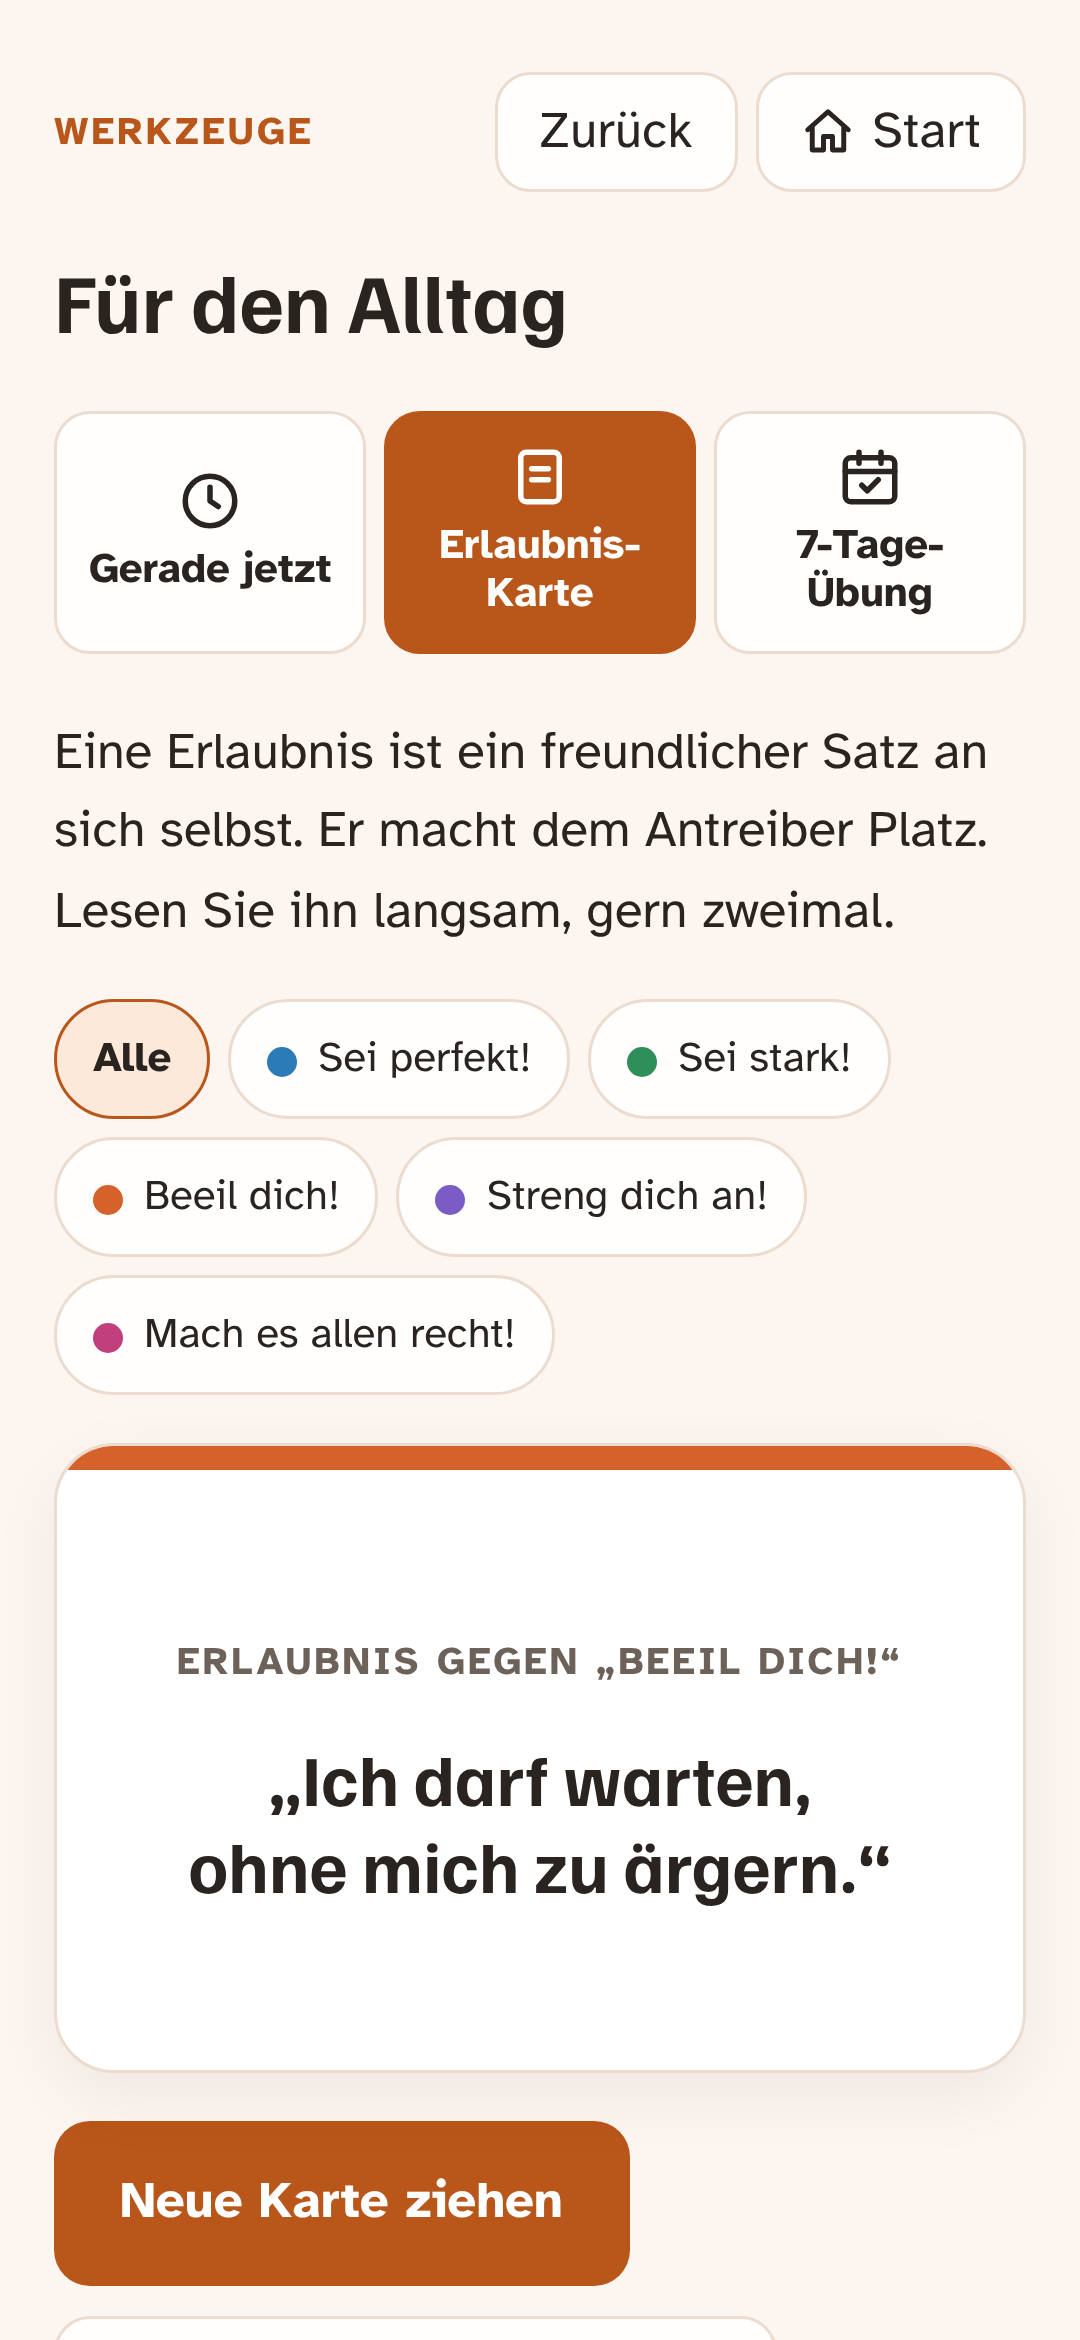
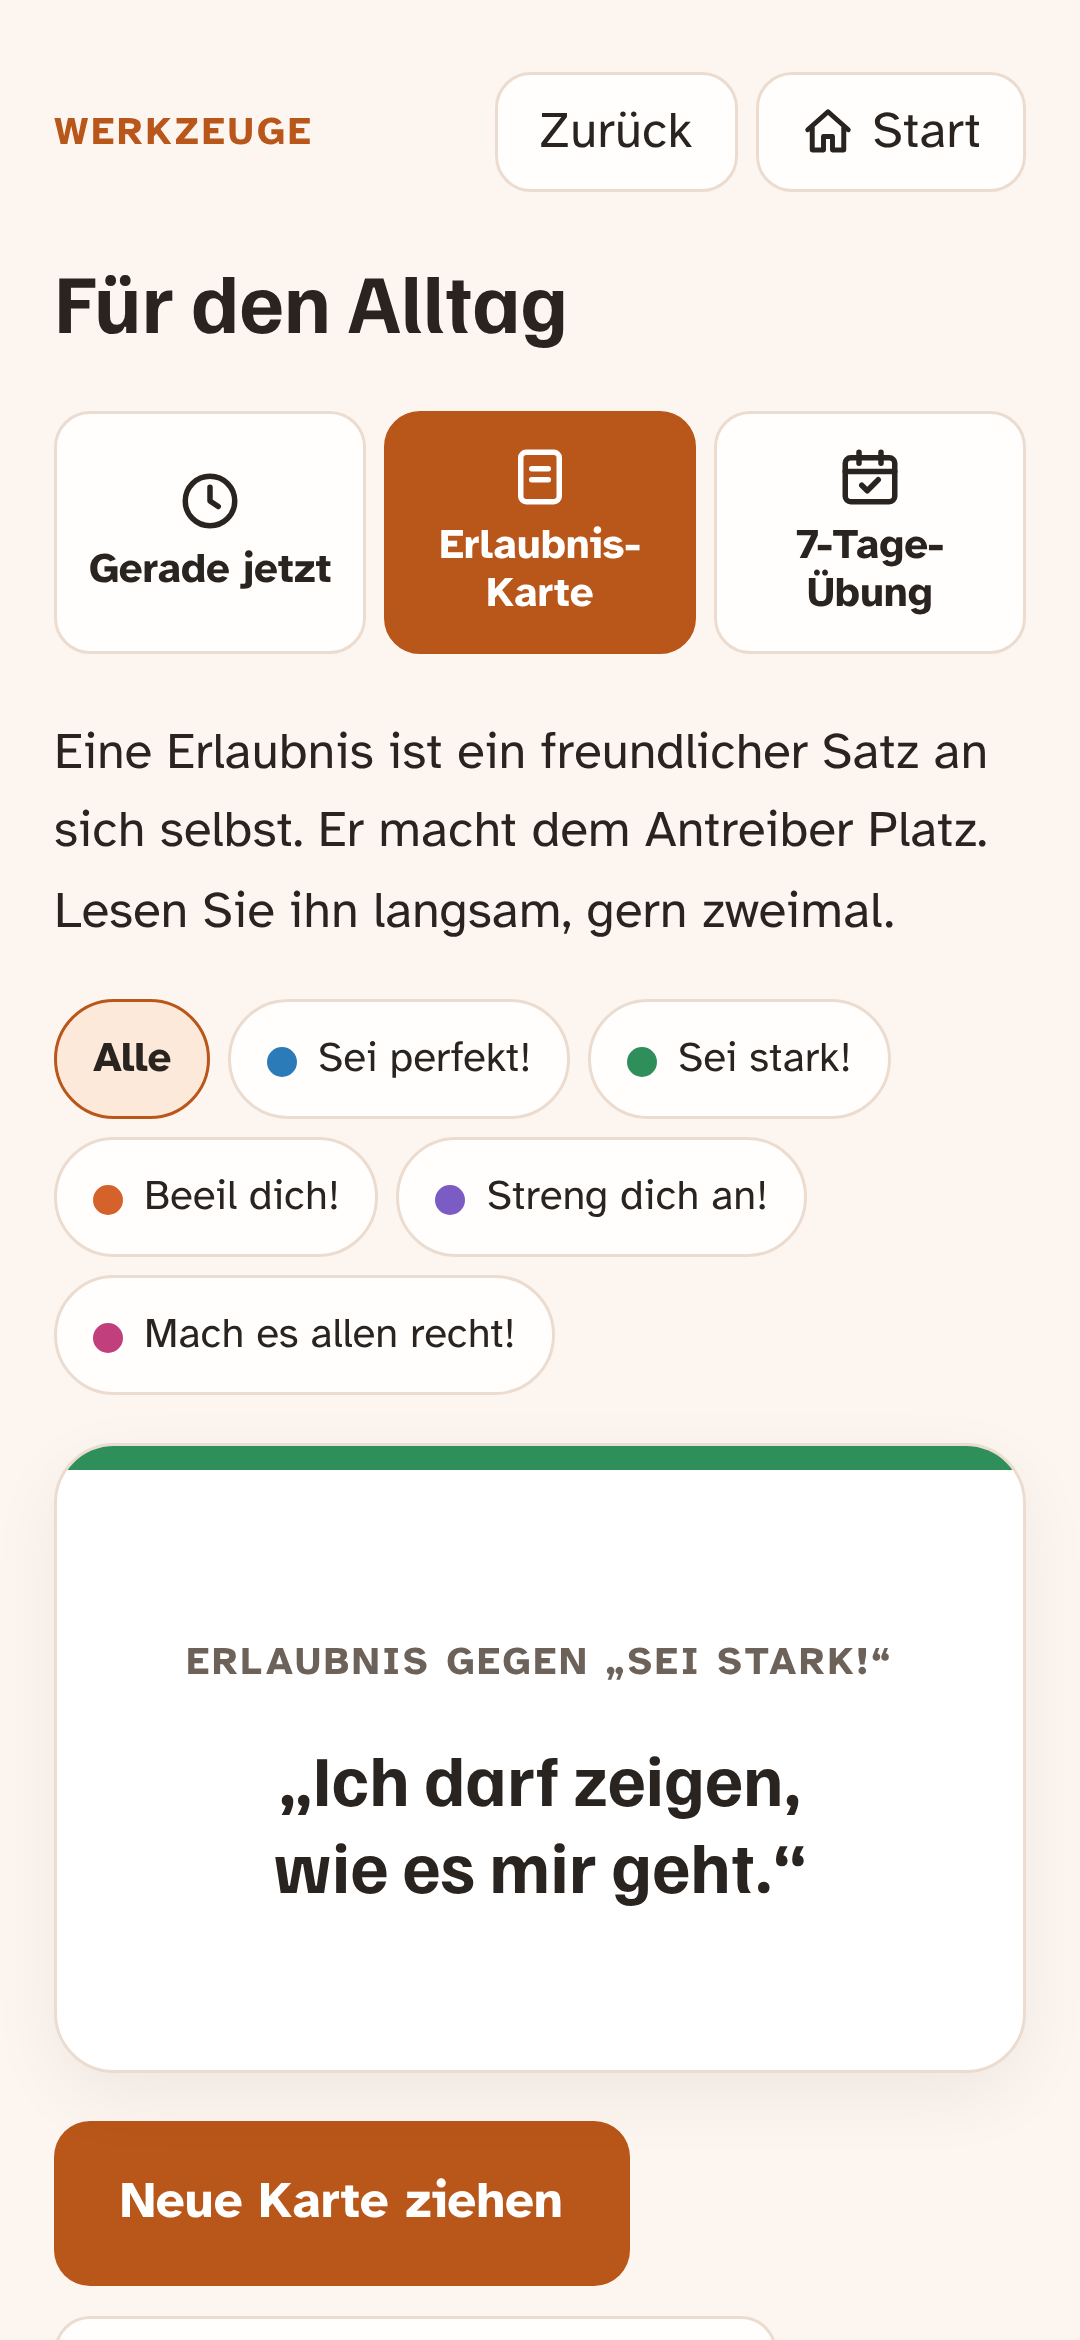
Erlaubnis-Karten werden jedes Mal neu zusammengestellt
- Je Antreiber ein Baukasten: 6 Anlässe („Wenn …,“), 8 Erlaubnisse
  („… darf ich …“), 6 kleine Schritte; vier Bauformen, 1.960 Karten
- Schon gezeigte Karten werden gemieden (bis 600 gemerkt)
- Lange Karten in kleinerer Schrift

Claude-Session: https://claude.ai/code/session_01XfaHrWKfCnrN5ZpBhepyRq

Changed region(s): [[0.0611, 0.5927, 0.9167, 0.6551], [0.1833, 0.7487, 0.825, 0.8111], [0.1528, 0.6863, 0.825, 0.7175]]

diff --git a/src/app.html b/src/app.html
@@ -207,6 +207,7 @@ button.chip[aria-expanded="true"]{border-color:var(--accent);box-shadow:inset 0 
 .pcard{position:relative;overflow:hidden;border-radius:20px;padding:30px 22px 22px;background:var(--surface-solid);border:1px solid var(--line);min-height:210px;display:flex;flex-direction:column;justify-content:center;gap:14px;text-align:center;box-shadow:0 8px 24px rgba(0,0,0,.06)}
 .pcard::before{content:"";position:absolute;inset:0 0 auto 0;height:8px;background:var(--pc,var(--accent))}
 .pcard .big{font-family:var(--f-display);font-weight:700;font-size:clamp(24px,6.5vw,30px);line-height:1.2;text-wrap:balance}
+.pcard .big.long{font-size:clamp(19px,5vw,23px);line-height:1.3;font-weight:500}
 .pcard.fresh{animation:pop .25s ease-out 1}
 @keyframes pop{from{transform:scale(.97);opacity:.4}to{transform:none;opacity:1}}
 @media (prefers-reduced-motion: reduce){.pcard.fresh{animation:none}}
@@ -435,7 +436,9 @@ const D = {
     shadow:"Sie werden schwer fertig. Kleine Fehler kosten Sie viel Kraft. Lob kommt kaum an.",
     stress:"Sie erklären zu viel, prüfen alles mehrmals und kritisieren sich selbst.",
     permit:"Ich bin gut genug, so wie ich bin.",
-    perms:["Ich bin gut genug, so wie ich bin.","Fehler gehören zum Lernen dazu.","Fertig ist besser als perfekt.","Ich darf Dinge auch mal halb gut machen.","Niemand schaut so genau hin wie ich selbst.","Ich darf mich über das freuen, was gelungen ist.","Gut gemacht heißt nicht fehlerfrei gemacht.","Ich muss nicht alles wissen, bevor ich anfange."],
+    cards:{a:["Wenn ich etwas zum dritten Mal prüfe,", "Wenn mich ein kleiner Fehler lange ärgert,", "Wenn ich eine Nachricht wieder und wieder umschreibe,", "Wenn ich nicht anfangen kann, weil noch nicht alles klar ist,", "Wenn ich beim Lob nur sehe, was fehlt,", "Wenn sich „gut genug“ falsch anfühlt,"],
+      b:["darf ich sagen: Das ist gut genug.", "bin ich trotzdem in Ordnung.", "darf ich es abgeben, so wie es ist.", "darf ich einen Fehler stehen lassen.", "muss ich nicht alles wissen, bevor ich anfange.", "darf ich mich über das freuen, was gelungen ist.", "darf ich mit 80 Prozent zufrieden sein.", "bin ich wertvoll, auch mit Fehlern."],
+      c:["Ich atme einmal aus und gebe es ab.", "Ich lege vorher fest, wann es fertig ist.", "Ich sage mir: Fertig ist besser als perfekt.", "Ich suche heute einmal absichtlich nicht nach Fehlern.", "Ich lobe mich für eine Sache, die heute gelungen ist.", "Ich lasse heute eine Kleinigkeit einfach so."]},
     signs:["Ich prüfe etwas zum dritten Mal.","Ein kleiner Fehler ärgert mich sehr."],
     now:"Sagen Sie leise: „Das ist gut genug.“ Dann geben Sie es ab.",
     tip:"Legen Sie vorher fest, wann etwas fertig ist. Zum Beispiel: „80 Prozent reichen hier.“"},
@@ -444,7 +447,9 @@ const D = {
     shadow:"Sie tragen Lasten allein. Gefühle und Grenzen bemerken Sie oft erst spät.",
     stress:"Sie ziehen sich zurück, wirken kühl und lehnen Hilfe ab.",
     permit:"Ich darf Gefühle zeigen und um Hilfe bitten.",
-    perms:["Ich darf Gefühle zeigen und um Hilfe bitten.","Ich darf auch schwach sein.","Gemeinsam trägt es sich leichter.","Ich darf sagen: Das ist mir zu viel.","Auch ich brauche manchmal Trost.","Um Hilfe zu bitten ist nicht schwach, sondern klug.","Ich darf müde sein und Pause machen.","Meine Gefühle sind in Ordnung, so wie sie sind."],
+    cards:{a:["Wenn ich die Zähne zusammenbeiße,", "Wenn ich niemanden um Hilfe bitten will,", "Wenn ich nach außen ruhig wirke und innen nicht,", "Wenn ich weitermache, obwohl ich erschöpft bin,", "Wenn ich meine Gefühle lieber für mich behalte,", "Wenn ich wieder alles allein tragen will,"],
+      b:["darf ich sagen: Das ist mir zu viel.", "darf ich um Hilfe bitten.", "darf ich zeigen, wie es mir geht.", "darf ich schwach sein und bleibe trotzdem ich.", "darf ich müde sein.", "brauche ich Trost wie jeder Mensch.", "darf ich mir etwas abnehmen lassen.", "bin ich nicht allein."],
+      c:["Ich schreibe einem lieben Menschen, wie es mir wirklich geht.", "Ich lege heute eine Sache aus der Hand.", "Ich sage heute einmal ehrlich: Ich bin müde.", "Ich atme dreimal langsam aus.", "Ich bitte jemanden um einen kleinen Gefallen.", "Ich gönne mir zehn Minuten nur für mich."]},
     signs:["Ich beiße die Zähne zusammen.","Ich will niemanden um Hilfe bitten."],
     now:"Atmen Sie dreimal langsam aus. Schreiben Sie dann einem lieben Menschen, wie es Ihnen wirklich geht.",
     tip:"Sagen Sie einmal pro Woche jemandem ehrlich, wie es Ihnen geht."},
@@ -453,7 +458,9 @@ const D = {
     shadow:"Sie hetzen von Termin zu Termin. Erholung und Genuss kommen zu kurz.",
     stress:"Sie unterbrechen andere, machen Flüchtigkeitsfehler und werden ungeduldig.",
     permit:"Ich darf mir Zeit lassen.",
-    perms:["Ich darf mir Zeit lassen.","Eins nach dem anderen.","Pausen gehören dazu.","Ich habe Zeit genug für das, was wichtig ist.","Langsam ist auch ein Tempo.","Ich darf andere in Ruhe ausreden lassen.","Nicht alles muss heute fertig werden.","Ich darf warten, ohne mich zu ärgern."],
+    cards:{a:["Wenn ich innerlich gehetzt bin,", "Wenn ich mehrere Dinge gleichzeitig mache,", "Wenn ich jemanden unterbrechen will,", "Wenn Warten mich nervös macht,", "Wenn ich mehr plane, als in den Tag passt,", "Wenn sich eine Pause wie verlorene Zeit anfühlt,"],
+      b:["darf ich mir Zeit lassen.", "darf ich eins nach dem anderen tun.", "habe ich Zeit genug für das, was wichtig ist.", "darf ich langsam sein.", "darf ich eine Pause machen.", "darf ich warten, ohne mich zu ärgern.", "darf ich sagen: Nicht alles muss heute fertig werden.", "darf ich den anderen ausreden lassen."],
+      c:["Ich lege alles kurz weg und atme fünfmal ruhig.", "Ich mache jetzt nur eine Sache.", "Ich plane heute zehn Minuten Puffer ein.", "Ich gehe den nächsten Weg bewusst langsamer.", "Ich höre einmal zu, bis der andere fertig ist.", "Ich trinke etwas in Ruhe, ohne aufs Handy zu schauen."]},
     signs:["Ich fühle mich innerlich gehetzt.","Ich mache mehrere Dinge gleichzeitig."],
     now:"Legen Sie kurz alles weg. Atmen Sie fünfmal ruhig ein und aus. Dann nur eine Sache.",
     tip:"Planen Sie Puffer zwischen Terminen ein. Machen Sie eine Sache nach der anderen."},
@@ -462,7 +469,9 @@ const D = {
     shadow:"Sie machen Dinge schwerer als nötig. Vieles wird begonnen, aber nicht beendet.",
     stress:"Sie mühen sich ab, statt einfache Wege zu nutzen. Trotzdem fühlen Sie sich nie fertig.",
     permit:"Ich darf es mir leicht machen.",
-    perms:["Ich darf es mir leicht machen.","Es darf auch einfach gehen.","Ich darf mich über Fertiges freuen.","Leicht heißt nicht wertlos.","Ich darf den einfachen Weg nehmen.","Ich darf aufhören, wenn es gut ist.","Ich muss mir nichts beweisen.","Ich darf Erfolg ohne Mühe annehmen."],
+    cards:{a:["Wenn ich mich plage, obwohl es leichter ginge,", "Wenn ich mich nie richtig fertig fühle,", "Wenn ich wieder den schweren Weg wähle,", "Wenn ich zu viel auf einmal anfange,", "Wenn mir Erfolg ohne Mühe verdächtig vorkommt,", "Wenn ich sage: Ich versuche es,"],
+      b:["darf ich es mir leicht machen.", "darf ich den einfachen Weg nehmen.", "darf ich aufhören, wenn es gut ist.", "darf ich mich über Fertiges freuen.", "muss ich mir nichts beweisen.", "darf ich Erfolg annehmen, auch ohne Plage.", "darf ich sagen: Ich mache es – statt: Ich versuche es.", "darf ich sagen: Das Ergebnis zählt, nicht die Mühe."],
+      c:["Ich frage: Was ist der einfachste nächste Schritt?", "Ich beende heute eine kleine Sache ganz.", "Ich streiche eine Aufgabe von der Liste.", "Ich freue mich kurz über etwas, das fertig ist.", "Ich frage jemanden nach dem leichten Weg.", "Ich sage heute: Ich mache es."]},
     signs:["Ich plage mich, obwohl es leichter ginge.","Ich fühle mich nie richtig fertig."],
     now:"Fragen Sie sich: Was ist der einfachste nächste Schritt? Machen Sie nur diesen.",
     tip:"Fragen Sie bei jeder Aufgabe: „Wie geht es einfacher?“ Und freuen Sie sich über alles, was fertig ist."},
@@ -471,7 +480,9 @@ const D = {
     shadow:"Eigene Wünsche gehen unter. Nein sagen fällt schwer. Kritik trifft tief.",
     stress:"Sie sagen Ja, obwohl Sie Nein meinen. Danach fühlen Sie sich ausgenutzt.",
     permit:"Ich darf auf mich selbst achten.",
-    perms:["Ich darf auf mich selbst achten.","Ich darf Nein sagen.","Ich bin wertvoll, auch wenn mich nicht alle mögen.","Ich darf andere enttäuschen, ohne schlecht zu sein.","Meine Wünsche zählen genauso viel wie die der anderen.","Ich muss mich nicht für alles entschuldigen.","Ich darf meine Meinung sagen.","Ich bin nicht für die Laune der anderen verantwortlich."],
+    cards:{a:["Wenn ich Ja sage und Nein meine,", "Wenn ich mich sorge, was andere über mich denken,", "Wenn ich mich schon wieder entschuldige,", "Wenn ich meine Wünsche hinten anstelle,", "Wenn Kritik mich tief trifft,", "Wenn jemand verstimmt ist und ich die Schuld bei mir suche,"],
+      b:["darf ich Nein sagen.", "darf ich auf mich selbst achten.", "bin ich wertvoll, auch wenn mich nicht alle mögen.", "darf ich andere enttäuschen, ohne schlecht zu sein.", "darf ich sagen: Meine Wünsche zählen genauso viel.", "muss ich mich nicht für alles entschuldigen.", "darf ich meine Meinung sagen.", "bin ich nicht für die Laune der anderen verantwortlich."],
+      c:["Ich sage: Ich gebe dir später Bescheid.", "Ich frage mich zuerst: Was will ich selbst?", "Ich lasse heute eine Entschuldigung weg.", "Ich sage einmal freundlich Nein.", "Ich tue heute eine Sache nur für mich.", "Ich spreche eine Meinung aus, die anders ist als die der anderen."]},
     signs:["Ich habe Ja gesagt, obwohl ich Nein meinte.","Ich sorge mich, was andere über mich denken."],
     now:"Sagen Sie: „Ich überlege es mir kurz.“ Fragen Sie sich dann: Was will ich selbst?",
     tip:"Sagen Sie bei Bitten zuerst: „Ich gebe dir später Bescheid.“ Dann prüfen Sie in Ruhe."}
@@ -839,32 +850,40 @@ function drawNow(){
   $("nowOut").querySelector("[data-pick]").addEventListener("click", ()=>{ cardFor = k; });
 }
 
-// 2) Erlaubnis-Karte: 40 Sätze (8 je Antreiber). Jede Karte kommt erst wieder, wenn alle anderen durch sind.
+// 2) Erlaubnis-Karte: wird jedes Mal neu zusammengestellt aus Anlass („Wenn …,“), Erlaubnis („… darf ich …“) und
+//    kleinem Schritt. Vier Bauformen, fast 2.000 Möglichkeiten. Schon gezeigte Karten merkt sich die App und meidet sie.
 //    Ohne Auswahl kommen Karten zu den stärkeren Antreibern öfter. Mit Auswahl nur Karten zu diesem Antreiber.
-const CARDS = []; KEYS.forEach(k=>D[k].perms.forEach((t,i)=>CARDS.push({k,t,id:k+i})));
-const seen = mkStore("antreiber-karten", []);   // schon gezeigte Karten
+const seen = mkStore("antreiber-karten2", []);   // Kennungen schon gezeigter Karten (höchstens 600)
+const capB = b => b.replace(/^(\S+) ich\b/, "Ich $1");   // „darf ich …“ → „Ich darf …“
+const pick = arr => arr[Math.floor(Math.random()*arr.length)];
+function buildCard(k){
+  const {a, b, c} = D[k].cards, form = pick([0,0,0,1,1,1,2,2,3,3]);
+  const ia = Math.floor(Math.random()*a.length), ib = Math.floor(Math.random()*b.length), ic = Math.floor(Math.random()*c.length);
+  const t = form===0 ? `${a[ia]} ${b[ib]} ${c[ic]}` : form===1 ? `${capB(b[ib])} ${c[ic]}` : form===2 ? capB(b[ib]) : `${a[ia]} ${b[ib]}`;
+  return {k, t, id:`${k}:${form}:${form===1||form===2?"-":ia}:${ib}:${form===0||form===1?ic:"-"}`};
+}
+const CARD_COUNT = KEYS.reduce((n,k)=>{ const {a,b,c}=D[k].cards; return n + a.length*b.length*c.length + b.length*c.length + b.length + a.length*b.length; }, 0);
 let card = null, cardFor = null, cardFilter = null;
 function drawCard(fresh){
   if (!card || fresh || cardFor){
     const prof = lastProfile(), want = cardFor || cardFilter;
-    const all = CARDS.filter(c=>!want || c.k===want);
-    let done = seen.get(), pool = all.filter(c=>!done.includes(c.id) && c!==card);
-    if (!pool.length){ done = done.filter(id=>!all.some(c=>c.id===id)); pool = all.filter(c=>c!==card); }   // alle durch → von vorne
-    const w = pool.map(c=> prof && !want ? Math.max(1, prof[c.k]-20) : 1);
-    let r = Math.random()*w.reduce((a,b)=>a+b,0), j = 0;
-    while (j < pool.length-1 && (r -= w[j]) > 0) j++;
-    card = pool[j]; cardFor = null;
-    if (!done.includes(card.id)) done.push(card.id); seen.set(done);
+    // Antreiber wählen: vorgegeben, oder zufällig – stärkere öfter
+    let k = want;
+    if (!k){ const w = KEYS.map(x=> prof ? Math.max(1, prof[x]-20) : 1); let r = Math.random()*w.reduce((x,y)=>x+y,0), j = 0; while (j < KEYS.length-1 && (r -= w[j]) > 0) j++; k = KEYS[j]; }
+    let done = seen.get(), next = null;
+    for (let i=0; i<30 && !next; i++){ const c = buildCard(k); if (!done.includes(c.id) && !(card && c.t===card.t)) next = c; }
+    if (!next){ done = []; next = buildCard(k); }   // sehr unwahrscheinlich: alles schon gesehen → von vorne
+    card = next; cardFor = null;
+    done.push(card.id); while (done.length > 600) done.shift(); seen.set(done);
   }
   const d = D[card.k], el = $("pcard");
   el.style.setProperty("--pc", `var(${d.color})`);
-  el.innerHTML = `<span class="eyebrow" style="color:var(--muted)">Erlaubnis gegen „${d.name}“</span><p class="big">„${esc(card.t)}“</p>`;
+  el.innerHTML = `<span class="eyebrow" style="color:var(--muted)">Erlaubnis gegen „${d.name}“</span><p class="big${card.t.length>80?" long":""}">„${esc(card.t)}“</p>`;
   el.classList.remove("fresh"); if (fresh){ void el.offsetWidth; el.classList.add("fresh"); }
   const sv = saved.get();
   $("keep").textContent = sv && sv.t===card.t ? "Gemerkt ✓" : "Als meinen Satz merken";
   $("cardPills").innerHTML = `<button data-k="" aria-pressed="${!cardFilter}">Alle</button>` + KEYS.map(x=>`<button data-k="${x}" aria-pressed="${x===cardFilter}"><span class="dot" style="background:var(${D[x].color})"></span>${D[x].name}</button>`).join("");
-  const all = CARDS.filter(c=>!cardFilter || c.k===cardFilter), n = seen.get().filter(id=>all.some(c=>c.id===id)).length;
-  $("cardHint").textContent = `${n} von ${all.length} Karten gesehen${n>=all.length?" – alle durch, es geht von vorne los":""}. `
+  $("cardHint").textContent = `Jede Karte wird neu zusammengestellt – aus fast ${Math.floor(CARD_COUNT/100)*100} Möglichkeiten. `
     + (cardFilter ? "" : lastProfile() ? "Karten zu Ihren stärkeren Antreibern kommen öfter." : "Nach dem Test kommen Karten zu Ihren stärkeren Antreibern öfter.");
 }
 $("cardPills").addEventListener("click", e=>{ const b=e.target.closest("button"); if(!b) return; cardFilter = b.dataset.k || null; drawCard(true); });

diff --git a/CLAUDE.md b/CLAUDE.md
@@ -7,7 +7,7 @@ Erkläre Änderungen in Alltagssprache, ohne Fachjargon, und sag am Ende, was er
 Selbsttest zu den fünf Antreibern der Transaktionsanalyse (Kahler 1975): 50 eigene Aussagen, Skala 1–5,
 Profil als Fünfeck oder Balken (10–50 Punkte, ab 38 „stark“), Vergleich mit dem letzten Test, Verlauf (bis 12 Tests),
 je Antreiber Stärke, Kehrseite, Stress-Zeichen, Erlaubnis-Satz, Übung.
-Werkzeuge: „Gerade jetzt“ (Stress-Zeichen antippen), Erlaubnis-Karte ziehen/merken (40 Sätze, keine Wiederholung bis alle durch), 7-Tage-Übung.
+Werkzeuge: „Gerade jetzt“ (Stress-Zeichen antippen), Erlaubnis-Karte ziehen/merken (Baukasten je Antreiber: Anlass + Erlaubnis + kleiner Schritt, ~2.000 Kombinationen, Gesehenes wird gemieden), 7-Tage-Übung.
 Seite „Hintergrund“ (`src/hintergrund.html`): Herkunft, Belege und Grenzen des Modells mit Quellen – nur Belegtes eintragen.
 Antreiber-Farben sind auf Farbschwäche geprüft (Blau, Grün, Orange, Violett, Magenta) – Namen stehen immer dabei.
 Android-App `at.mayoka.antreiber` (Capacitor 7), sanfter MAYOKA-Hintergrund, läuft ohne Internet, Antworten bleiben auf dem Gerät.
